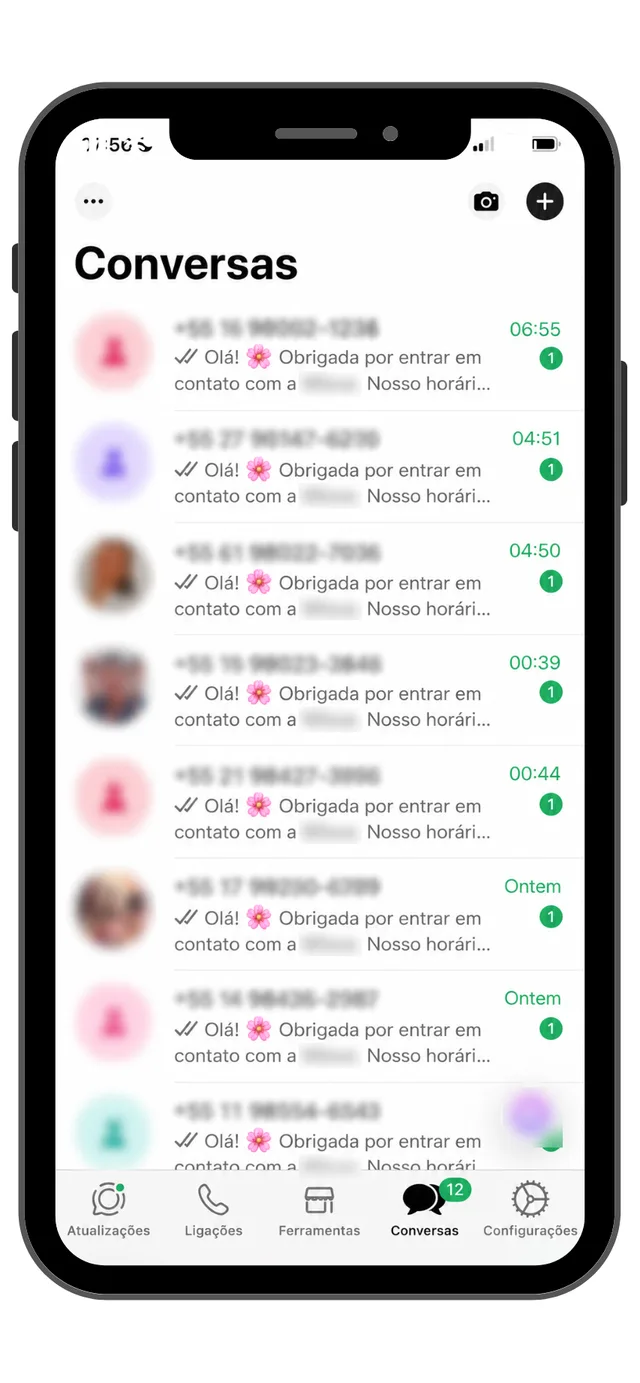
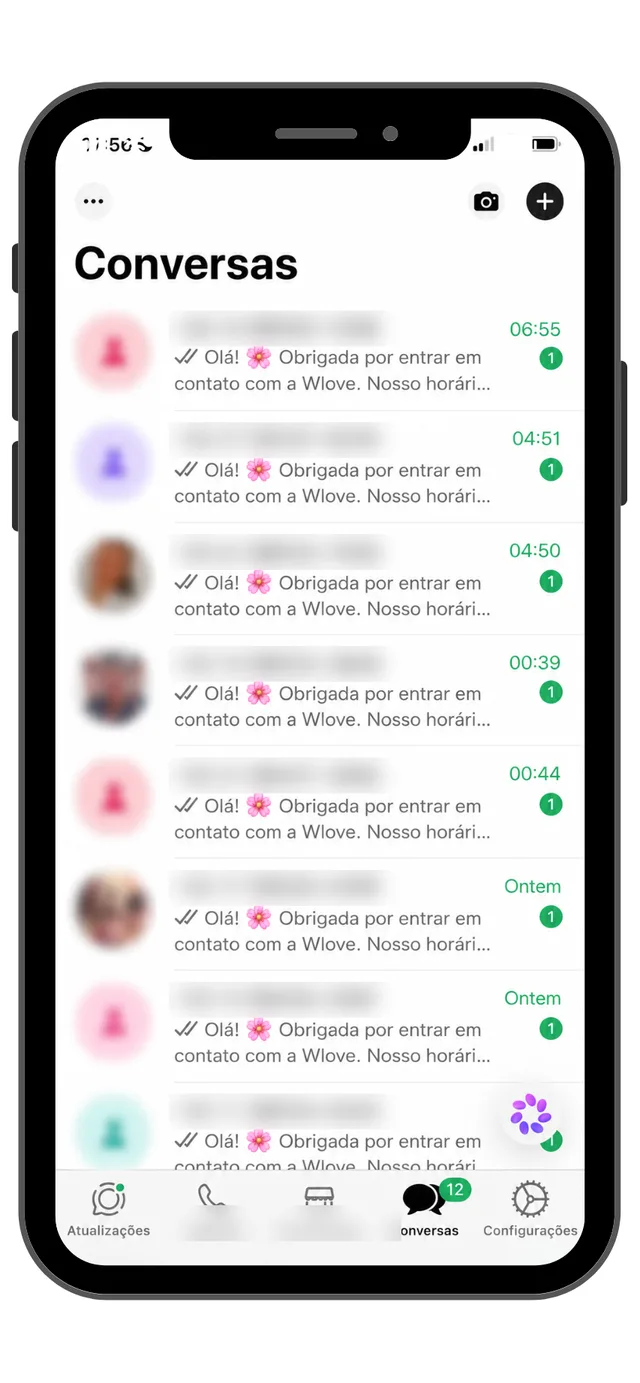
feat: add new 'trafego pago' image

diff --git a/index.html b/index.html
@@ -312,7 +312,7 @@
     <div class="hero__texto">
       <p class="hero__rotulo">New Arrays | Experiência Digital</p>
       <h1 id="hero-titulo" class="hero__titulo"><span class="pal">Experiência</span> <span class="pal">digital</span> <span class="pal">que</span> <span class="pal">conecta</span> <span class="pal">e</span> <span class="pal">converte.</span></h1>
-      <p class="hero__sub">Montamos a estrutura digital da sua empresa para atrair leads (potenciais clientes) e dar retorno ao seu investimento.</p>
+      <p class="hero__sub">Criamos a estrutura digital que sua empresa precisa para atrair leads (potenciais clientes), gerar mais oportunidades de venda e aumentar o retorno do seu investimento.</p>
       <div class="hero__acoes">
         <button class="btn btn--primario btn--grande hero__cta" type="button" data-abrir-form data-cta-pos="hero" aria-expanded="false" aria-controls="diagnostico">
           <span>Quero falar sobre meu projeto</span>
@@ -522,26 +522,28 @@
         </div>
       </article>
 
-      <article class="pilar pilar--trafego" aria-labelledby="pl-trafego" data-zoom-proporcao="1.12">
+      <article class="pilar pilar--trafego" aria-labelledby="pl-trafego" data-zoom-proporcao="0.78">
         <div class="pilar__cabeca">
           <svg class="pilar__icone" aria-hidden="true"><use href="#i-target"/></svg>
           <h3 id="pl-trafego" class="pilar__titulo">Tráfego pago</h3>
         </div>
         <p class="pilar__txt">Anúncios que levam sua oferta a quem tem interesse e trazem leads (potenciais clientes) todos os meses.</p>
         <div class="pilar__midia pilar__midia--trafego">
-          <!-- duas peças em leque: trocam de lugar sozinhas a cada poucos segundos e com um clique na de trás (assets/js/midia.js).
-               Cliente do print não identificado de propósito: nomes, telefones e marca borrados. -->
-          <div class="leque pilar__midia-item" data-leque>
-            <figure class="peca peca--print leque__peca" data-frente>
-              <img src="assets/midia/trafego-conversas.webp" width="640" height="1383" alt="Celular com a lista de conversas do WhatsApp cheia de novos contatos vindos de anúncios. Nomes e telefones ocultos." loading="lazy" decoding="async">
-              <figcaption class="peca__selo"><strong>Leads no WhatsApp</strong> cliente anônimo</figcaption>
-            </figure>
-            <a class="peca peca--reel leque__peca" href="https://www.instagram.com/p/DTdeE09EUEz/" target="_blank" rel="noopener">
-              <video class="peca__video" data-src="assets/midia/clin-organico-trafego.mp4" poster="assets/midia/clin-organico-trafego.webp" muted loop playsinline preload="none" aria-hidden="true"></video>
-              <span class="peca__selo"><strong>Clin Quality</strong> orgânico + anúncio</span>
-              <span class="sr-only">Reels da Clin Quality que rodou no orgânico e no tráfego pago (abre o Instagram em nova aba)</span>
-            </a>
-          </div>
+          <!-- duas peças verticais em cima (conversas da Wlove e Reels da Clin) e o painel do Meta Ads embaixo -->
+          <a class="peca peca--print pilar__midia-item" href="https://www.instagram.com/wlovepersonalizados" target="_blank" rel="noopener">
+            <img src="assets/midia/trafego-conversas.webp" width="640" height="1383" alt="Celular com a lista de conversas do WhatsApp da Wlove cheia de novos contatos vindos de anúncios. Nomes e telefones dos clientes ocultos." loading="lazy" decoding="async">
+            <span class="peca__selo"><strong>Wlove Personalizados</strong> leads no WhatsApp</span>
+            <span class="sr-only">Instagram da Wlove Personalizados (abre em nova aba)</span>
+          </a>
+          <a class="peca peca--reel pilar__midia-item" href="https://www.instagram.com/p/DTdeE09EUEz/" target="_blank" rel="noopener">
+            <video class="peca__video" data-src="assets/midia/clin-organico-trafego.mp4" poster="assets/midia/clin-organico-trafego.webp" muted loop playsinline preload="none" aria-hidden="true"></video>
+            <span class="peca__selo"><strong>Clin Quality</strong> orgânico + anúncio</span>
+            <span class="sr-only">Reels da Clin Quality que rodou no orgânico e no tráfego pago (abre o Instagram em nova aba)</span>
+          </a>
+          <figure class="peca peca--painel pilar__midia-item">
+            <img src="assets/midia/meta-campanhas-820.webp" srcset="assets/midia/meta-campanhas-820.webp 820w, assets/midia/meta-campanhas.webp 1640w" sizes="(min-width: 1024px) 560px, 90vw" width="1640" height="841" alt="Painel do Meta Ads com duas campanhas ativas: 1,9 mil e 3,6 mil visualizações da página de destino, a R$ 0,18 e R$ 0,10 por visualização." loading="lazy" decoding="async">
+            <figcaption class="peca__selo"><strong>Meta Ads</strong> campanhas ativas</figcaption>
+          </figure>
         </div>
       </article>
 
@@ -752,8 +754,8 @@
 <!-- ============ CENA 3 · RESULTADOS REAIS ============ -->
 <section class="resultados secao" id="resultados" aria-labelledby="resultados-titulo">
   <div class="secao__in">
-    <h2 id="resultados-titulo" class="resultados__titulo" data-fx="subir">Resultados reais, contados por quem viveu.</h2>
-    <p class="resultados__intro" data-fx="subir" data-fx-atraso="100">Vídeos que produzimos para clientes e publicamos no Instagram, com os números de verdade. Os vídeos tocam sem som: toque no alto-falante para ouvir.</p>
+    <h2 id="resultados-titulo" class="resultados__titulo" data-fx="subir">Conteúdo que gera resultado.</h2>
+    <p class="resultados__intro" data-fx="subir" data-fx-atraso="100">Reels que roteirizamos, gravamos e editamos para clientes, com os números que alcançaram no Instagram. Os vídeos tocam sem som: toque no alto-falante para ouvir.</p>
 
     <!--
       VÍDEOS DE CLIENTES (assets/midia): MP4 H.264 vertical 9:16 (~420x746), com som, + capa .webp do mesmo nome.

diff --git a/assets/css/site.css b/assets/css/site.css
@@ -2287,7 +2287,6 @@ html.lenis, html.lenis:focus-within { scroll-behavior: auto !important; }
   .pilares__grade.tem-zoom .pilar:not(.pilar--zoom) { opacity: 0.32; transform: scale(0.97); filter: saturate(0.4); }
   .pilar--zoom .pilar__txt { max-width: 56ch; }
   /* no tráfego ampliado, os dois prints ficam lado a lado (mais quadrados, mais legíveis) */
-  .pilar--trafego.pilar--zoom .pilar__midia--trafego { grid-template-rows: 1fr; grid-template-columns: 4.6fr 5.6fr; }
   .pilar__midia--trafego { transition: grid-template-columns 0.5s var(--ease-out); }
 }
 
@@ -2399,24 +2398,17 @@ a.peca:hover video, a.peca:hover .peca__galeria img { transform: scale(1.03); }
   box-shadow: 0 28px 56px -18px rgb(0 0 0 / 0.85);
   transition: top 0.7s var(--ease-out), height 0.7s var(--ease-out), transform 0.7s var(--ease-out), filter 0.5s ease, z-index 0s 0.25s;
 }
-.peca--print.leque__peca { left: 0; top: 18%; height: 82%; aspect-ratio: 640 / 1383; transform: rotate(-5deg); }
-.peca--reel.leque__peca { right: 0; top: 0; height: 90%; aspect-ratio: 9 / 16; transform: rotate(3.5deg); }
+.peca--print.leque__peca { aspect-ratio: 640 / 1383; }
+.peca--reel.leque__peca { aspect-ratio: 9 / 16; }
 /* quem está atrás: um pouco menor e mais escuro; quem está na frente: por cima */
-.leque__peca:not([data-frente]) { z-index: 1; transform: rotate(var(--giro, 0deg)) scale(0.94); filter: brightness(0.55) saturate(0.8); cursor: pointer; }
-.leque__peca[data-frente] { z-index: 2; }
-.peca--print.leque__peca { --giro: -5deg; }
-.peca--reel.leque__peca { --giro: 3.5deg; }
-.leque__peca:not([data-frente]) .peca__selo { opacity: 0; }
 .leque__peca .peca__selo { transition: opacity 0.4s ease; }
-.leque__peca:not([data-frente]):hover { filter: brightness(0.75); }
+
 
 @media (min-width: 1024px) and (hover: hover) and (pointer: fine) {
   /* ampliado: Reels + dois posts lado a lado, bem maiores */
   .pilar--zoom .peca__selo { left: 12px; bottom: 12px; font-size: 0.8125rem; }
   .pilar--zoom .peca__selo strong { font-size: 0.9375rem; }
   /* ampliado: o leque abre e as duas peças ficam lado a lado, inteiras */
-  .pilar--zoom .leque__peca { top: 0; height: 100%; transform: none; filter: none; }
-  .pilar--zoom .leque__peca .peca__selo { opacity: 1; }
 }
 
 /* =========================================================
@@ -2642,16 +2634,6 @@ a.peca:hover video, a.peca:hover .peca__galeria img { transform: scale(1.03); }
    (unidades do contêiner: a altura das peças se ajusta para caberem lado a lado)
    ========================================================= */
 .leque { container-type: size; }
-@media (min-width: 1024px) and (hover: hover) and (pointer: fine) {
-  .pilar--zoom .leque {
-    --vao: 18px;
-    --h: min(100cqh, (100cqw - var(--vao)) / (640 / 1383 + 9 / 16));
-    --sobra: calc((100cqw - var(--h) * (640 / 1383 + 9 / 16) - var(--vao)) / 2);
-  }
-  .pilar--zoom .peca--print.leque__peca { left: var(--sobra); top: calc((100cqh - var(--h)) / 2); height: var(--h); }
-  .pilar--zoom .peca--reel.leque__peca { right: var(--sobra); top: calc((100cqh - var(--h)) / 2); height: var(--h); }
-  .leque__peca { transition: top 0.7s var(--ease-out), left 0.7s var(--ease-out), right 0.7s var(--ease-out), height 0.7s var(--ease-out), transform 0.7s var(--ease-out), filter 0.5s ease, z-index 0s 0.25s; }
-}
 
 /* convite para ouvir: aparece quando o navegador bloqueia o som até o primeiro clique */
 .dock--convite .dock__som .dock__rotulo { opacity: 1; transform: translate(0, -50%); background: var(--blue-500); border-color: var(--blue-500); color: var(--bw-900); animation: convite-entra 0.6s var(--ease-out) 1.6s backwards; }
@@ -2857,3 +2839,28 @@ a.peca:hover video, a.peca:hover .peca__galeria img { transform: scale(1.03); }
   .projeto__nome { font-size: 1.25rem; }
   .projeto__txt p:not(.projeto__seg) { font-size: 0.8125rem; line-height: 1.4; }
 }
+
+/* painel do Meta Ads no card "Tráfego pago" das Três frentes */
+.servico__painel { margin: 0 0 22px; border-radius: 12px; overflow: hidden; border: 1px solid rgb(255 255 255 / 0.1); background: #1e2a33; position: relative; }
+.servico__painel img { display: block; width: 100%; height: auto; max-height: 26vh; object-fit: cover; object-position: top left; }
+.servico__painel figcaption { position: absolute; right: 10px; bottom: 8px; padding: 3px 10px; border-radius: var(--r-pilula); background: rgb(5 12 14 / 0.75); font-size: 0.75rem; color: #fff; }
+@media (min-width: 1024px) and (max-height: 760px) {
+  .servicos-deck .servico__painel { margin-bottom: 14px; }
+  .servicos-deck .servico__painel img { max-height: 17vh; }
+}
+
+/* =========================================================
+   PILAR TRÁFEGO: 2 peças verticais em cima + painel do Meta Ads embaixo
+   ========================================================= */
+.pilar__midia--trafego { display: grid !important; grid-template-columns: 1fr 1fr; grid-template-rows: minmax(0, 1fr) auto; gap: 10px; }
+.pilar__midia--trafego > .peca { min-height: 0; height: auto; }
+.pilar__midia--trafego > .peca--print img { object-position: 50% 8%; }
+.pilar__midia--trafego > .peca--painel { grid-column: 1 / -1; margin: 0; aspect-ratio: 1640 / 600; background: #1e2a33; }
+.pilar__midia--trafego > .peca--painel img { object-fit: cover; object-position: top left; }
+@media (max-width: 1023px) {
+  .pilar__midia--trafego { height: auto !important; grid-template-rows: auto auto; }
+  .pilar__midia--trafego > .peca--print, .pilar__midia--trafego > .peca--reel { aspect-ratio: 9 / 15; }
+}
+
+/* Três frentes: as três cartas sempre com a mesma altura (a maior define) */
+.servicos-deck .servicos__palco .fx-etapa, .servicos-deck .servicos__palco .fx-etapa:focus-within { align-self: stretch; }

diff --git a/assets/js/midia.js b/assets/js/midia.js
@@ -7,7 +7,7 @@
              (ou um clique no vídeo) liga o som de UM vídeo por vez, recomeçando
              do início. Enquanto um vídeo tem som, a música do site abaixa
              (evento "na:video-som", ouvido pelo dock.js).
-   LEQUE     [data-leque] (pilar Tráfego): as duas peças sobrepostas trocam de
+   LEQUE     [data-leque] (pilar Tráfego): as três peças sobrepostas giram de
              lugar sozinhas a cada LEQUE_MS e com um clique na peça de trás.
              Para enquanto o mouse está em cima ou o pilar está ampliado.
    Nada é baixado antes de a página terminar de carregar. Com "reduzir movimento"
@@ -67,31 +67,32 @@
   }
   function galeriaParar(item) { clearInterval(item.t); }
 
-  /* ---------- leque: duas peças sobrepostas que trocam de lugar ---------- */
-  function lequeTrocar(leque) {
-    var pecas = leque.querySelectorAll(".leque__peca");
-    for (var i = 0; i < pecas.length; i++) {
-      if (pecas[i].hasAttribute("data-frente")) pecas[i].removeAttribute("data-frente");
-      else pecas[i].setAttribute("data-frente", "");
+  /* ---------- leque: peças sobrepostas que giram de lugar (data-pos 0 = frente) ---------- */
+  function lequeGirar(leque, vezes) {
+    var pecas = leque.querySelectorAll(".leque__peca"), n = pecas.length;
+    for (var k = 0; k < (vezes || 1); k++) {
+      for (var i = 0; i < n; i++) {
+        var p = parseInt(pecas[i].getAttribute("data-pos"), 10) || 0;
+        pecas[i].setAttribute("data-pos", String((p + n - 1) % n)); // 1 vira frente, a frente vai para o fim da fila
+      }
     }
   }
   function lequeIniciar(item) {
     clearInterval(item.t);
     item.t = setInterval(function () {
-      var pilar = item.el.closest(".pilar");
-      if (item.el.matches(":hover") || (pilar && pilar.classList.contains("pilar--zoom"))) return;
-      lequeTrocar(item.el);
+      if (item.el.matches(":hover")) return; // a pessoa está olhando: não troca
+      lequeGirar(item.el);
     }, MIDIA.LEQUE_MS);
   }
   doc.querySelectorAll("[data-leque]").forEach(function (leque) {
-    // clique na peça de trás: ela vem para a frente (e não abre o link); na da frente, o link funciona normal
+    // clique numa peça de trás: ela vem para a frente (e não abre o link); na da frente, o link funciona normal
     leque.addEventListener("click", function (e) {
       var peca = e.target.closest(".leque__peca");
-      if (!peca || peca.hasAttribute("data-frente")) return;
-      var pilar = leque.closest(".pilar");
-      if (pilar && pilar.classList.contains("pilar--zoom")) return; // ampliado: as duas já estão inteiras
+      if (!peca) return;
+      var pos = parseInt(peca.getAttribute("data-pos"), 10) || 0;
+      if (!pos) return;
       e.preventDefault();
-      lequeTrocar(leque);
+      lequeGirar(leque, pos);
       if (leque._naItem && leque._naItem.ativo) lequeIniciar(leque._naItem); // recomeça a contagem
     });
   });
